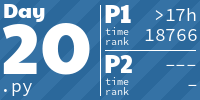
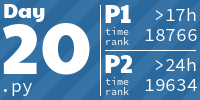
2024 - Day 20, part 2

Changed region(s): [[0.72, 0.78, 0.99, 0.93], [0.78, 0.57, 0.99, 0.72]]

diff --git a/ibidem/advent_of_code/y2024/dec20.py b/ibidem/advent_of_code/y2024/dec20.py
@@ -1,4 +1,6 @@
 #!/usr/bin/env python
+from rich.progress import track
+
 from ibidem.advent_of_code.a_star import a_star, Node
 from ibidem.advent_of_code.board import Board
 from ibidem.advent_of_code.util import get_input_name, Vector
@@ -19,7 +21,7 @@ def part1(board: Board, cutoff):
     _, path = a_star(start, goal.pos, board)
 
     pos_to_idx = {pos: idx for idx, pos in enumerate(reversed(path))}
-    for node in path:
+    for node in track(path):
         for j in (-1, 0, 1):
             for i in (-1, 0, 1):
                 if i == j == 0:
@@ -35,21 +37,41 @@ def part1(board: Board, cutoff):
                 other = Node(Vector(nnx, nny))
                 if board.get(nx, ny) == "#" and board.get(nnx, nny) in (".", "E") and other in path and pos_to_idx[other] > pos_to_idx[node]:
                     savings = pos_to_idx[other] - pos_to_idx[node] - 2
-                    if savings > cutoff:
+                    if savings >= cutoff:
                         shortcuts.append((node, other))
     good_shortcuts = len(shortcuts)
     print(f"Found {good_shortcuts} good shortcuts")
     return good_shortcuts
 
 
-def part2(input):
-    return None
+def part2(board: Board, cutoff):
+    start_y, start_x = board.find("S")[0]
+    goal_y, goal_x = board.find("E")[0]
+
+    shortcuts = []
+
+    start = Node(Vector(start_x, start_y))
+    goal = Node(Vector(goal_x, goal_y))
+    _, path = a_star(start, goal.pos, board)
+
+    path = list(reversed(path))
+    pos_to_idx = {pos: idx for idx, pos in enumerate(path)}
+    for i, node in track(enumerate(path), total=len(path)):
+        for other in path[i+cutoff:]:
+            distance = node.pos.distance(other.pos)
+            if distance <= 20:
+                savings = pos_to_idx[other] - pos_to_idx[node] - distance
+                if savings >= cutoff:
+                    shortcuts.append((node, other))
+    good_shortcuts = len(shortcuts)
+    print(f"Found {good_shortcuts} good shortcuts")
+    return good_shortcuts
 
 
 if __name__ == "__main__":
     with open(get_input_name(20, 2024)) as fobj:
-        p1_result = part1(load(fobj), 99)
+        p1_result = part1(load(fobj), 100)
         print(f"Part 1: {p1_result}")
     with open(get_input_name(20, 2024)) as fobj:
-        p2_result = part2(load(fobj))
+        p2_result = part2(load(fobj), 100)
         print(f"Part 2: {p2_result}")

diff --git a/ibidem/advent_of_code/y2024/test/test_dec20.py b/ibidem/advent_of_code/y2024/test/test_dec20.py
@@ -10,7 +10,7 @@ from ibidem.advent_of_code.y2024.dec20 import load, part1, part2
 Case = namedtuple('Case', 'part1 part2 input')
 
 TEST_INPUTS = [
-    Case(5, NotImplemented, io.StringIO(textwrap.dedent("""\
+    Case(5, 7, io.StringIO(textwrap.dedent("""\
         ###############
         #...#...#.....#
         #.#.#.#.#.###.#
@@ -47,7 +47,6 @@ class TestDec20():
         result = part1(loaded, 12)
         assert result == case.part1
 
-    @pytest.mark.skip("Not implemented")
     def test_part2(self, loaded, case):
-        result = part2(loaded)
+        result = part2(loaded, 74)
         assert result == case.part2
